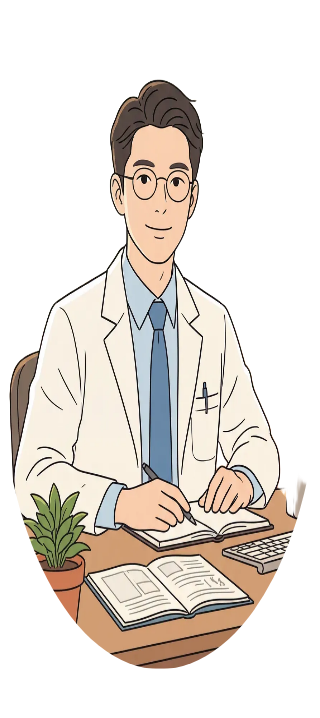
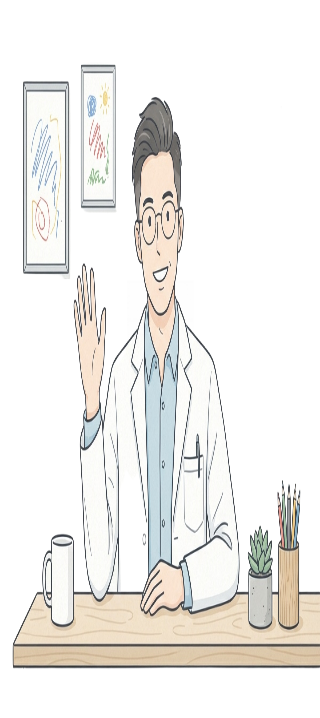
슬라이더 이미지 크기 일관성 수정 및 main_4_img1.png 교체
- main_1 슬라이더: min-height/max-height 설정으로 이미지 높이 일관성 확보
- object-fit: cover로 이미지 비율 유지하며 영역에 맞춤
- main_4_img1.png: 대표원장 이미지 교체
- intro 폴더 이미지 업데이트 (intro_2_1_img2.png 등)

diff --git a/src/styles/main.css b/src/styles/main.css
@@ -17,12 +17,20 @@
 
 .main_1_swiper .img_wrap {
   position: relative;
+  /* 이미지 높이 일관성을 위한 최소/최대 높이 설정 */
+  min-height: 400px;
+  max-height: 600px;
+  overflow: hidden;
 }
 
 .main_1_swiper .img_wrap img {
   border-radius: 50px;
   width: 100%;
-  height: auto;
+  height: 100%;
+  min-height: 400px;
+  max-height: 600px;
+  object-fit: cover;
+  object-position: center;
 }
 
 .main_1_swiper .img_wrap .txt_wrap {
